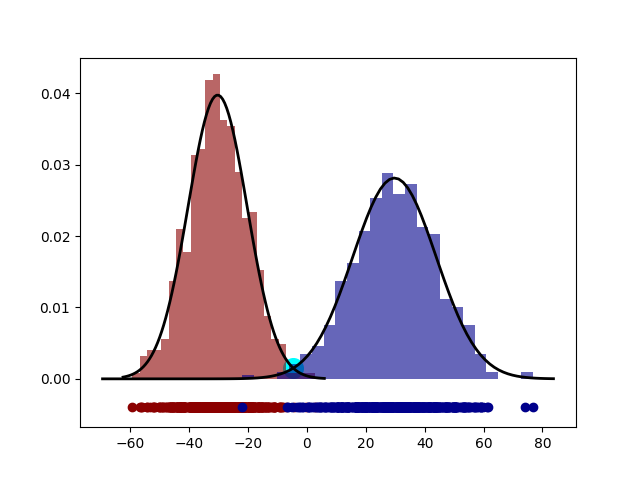
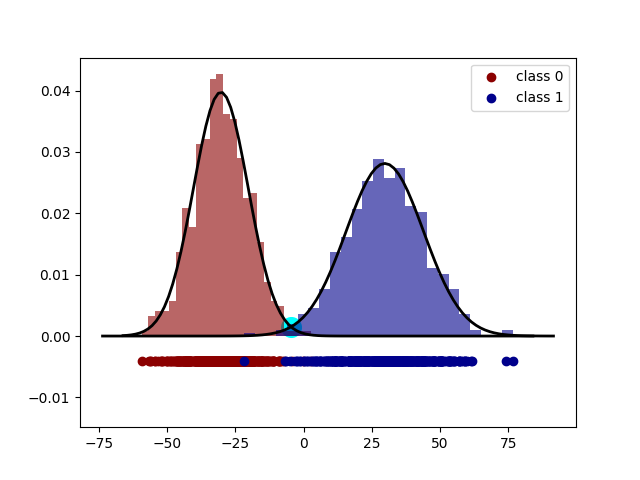
Fishers Discriminant: Add README

diff --git a/fishers-discriminant/main.py b/fishers-discriminant/main.py
@@ -2,6 +2,7 @@ from fishers_discriminant import Model
 import numpy as np
 import matplotlib.pyplot as plt
 import plotter
+np.random.seed(0)
 
 def load_data(path):
 
@@ -28,23 +29,31 @@ def train_test_split(X, test_ratio=0.33):
     return train, test, t
 
 def calculate_accuracy(y, t):
-        
-        return 100 - (np.mean(np.abs(y - t))*100)
+
+    return 100 - (np.mean(np.abs(y - t))*100)
     
+
 def calculate_fscore(y, t):
     
-    intersection = np.sum(y*t)
-    precision = intersection / np.sum(y)
-    recall = intersection / np.sum(t)
-    fscore = (2*precision*recall)/(precision + recall)
+    epsilon = 1e-20
+
+    tp = np.sum(t*y) + epsilon
+    pp = np.sum(y) + epsilon
+    ap = np.sum(t) + epsilon
+
+    precision = tp/pp
+    recall = tp/ap
+    
+    fscore = (2*precision*recall)/(precision + recall + epsilon)
     return fscore
 
 if __name__ == '__main__':
 
     model = Model()
-    data = load_data('data/data2D.npy')
+    data = load_data('data/data3D.npy')
     train, test, t = train_test_split(data, 0.20)
-    _2D = 1
+    # set to 1 to visualize 2D dataset without transformation
+    _2D = 0
     # print(train.shape, test.shape)
 
     # Model takes as input examples stacked as rows
@@ -53,15 +62,20 @@ if __name__ == '__main__':
     print(calculate_accuracy(y, t))
     print(calculate_fscore(y, t))
 
-    plotter.plot_normal(X0, '#8B0000')
-    plotter.plot_normal(X1, '#00008B')
+    print(X0[:10])
+    print(X1[:10])
+
     plotter.plot_line(X0, '#8B0000')
     plotter.plot_line(X1, '#00008B')
+    plt.legend(['class 0', 'class 1'], loc=4)
+    plotter.plot_normal(X0, '#8B0000')
+    plotter.plot_normal(X1, '#00008B')
     plotter.plot_point(tx, ty)
     plt.show()
 
     plotter.plot_transformed(X0, model.get_w(), '#8B0000')
     plotter.plot_transformed(X1, model.get_w(), '#00008B')
+    plt.legend(['class 0', 'class 1'], loc=4)
     if _2D:
         x0, x1 = model.segregate_classes(train)
         plotter.plot(x0*1000, '#F08080')

diff --git a/fishers-discriminant/fishers_discriminant.py b/fishers-discriminant/fishers_discriminant.py
@@ -3,10 +3,15 @@ import numpy as np
 class Model:
 
     def __init__(self):
+        # direction along which to project the vectors
         self.w = None
+        # value of threshold to be used for classification after dimensionality reduction
         self.threshold = None
+        # value of probability at the threshold (needed only for visualization purposes)
         self.thresholdY = None
+        # True if mean of class 0 is > mean of class 1
         self.inv = False
+        # scaling factor to make plots more visually appealing
         self.scale = None
 
 
@@ -44,7 +49,7 @@ class Model:
         Sw = cv0 + cv1
         self.w = np.matmul(np.linalg.inv(Sw), mean1 - mean0).reshape(-1)
         # scale w so that w[0] = 1
-        self.scale = 1/self.w[0]
+        self.scale = np.abs(1/self.w[0])
         self.w = self.w*self.scale
 
     def transform(self, data):

diff --git a/fishers-discriminant/data.py b/fishers-discriminant/data.py
@@ -1,13 +1,3 @@
-# Data information
-
-# 1. variance of Wavelet Transformed image (continuous)
-# 2. skewness of Wavelet Transformed image (continuous)
-# 3. curtosis of Wavelet Transformed image (continuous)
-# 4. entropy of image (continuous)
-# 5. class (integer)
-
-# Number of instances: 1372
-
 import csv
 import numpy as np
 

diff --git a/fishers-discriminant/README.md b/fishers-discriminant/README.md
@@ -1,0 +1,51 @@
+# Linear Discriminant Analysis
+
+The objective of this project is to implement Fisher's Linear Discriminant for dimensionality reduction. Further, after projection into a smaller space, a classification model is built by estimating the smaller dimensional Gaussian distribution from which each class is drawn.
+
+The model was trained and tested on 2 datasets and can be found in `data/`.
+- `data2D.npy` contains 2-dimensional data and 2 classes (binary classification)
+- `data3D.npy` contains 3-dimensional data and 2 classes (binary classification)
+
+Each of these is reduced to 1 dimension for classification using the discriminant made.
+The 1D Gaussian is estimated using maximum likelihood estimation and the classifier threshold is found by intersecting the two Gaussians (corresponding to each class). Intersection point for Gaussians is found using binary search.
+
+#### Model Description
+
+The model is defined in `fisher_discriminant.py` as `Model`.
+
+## Experiments
+
+To evaluate the robustness of this method, the dataset is split into train and test sets in the ratio 0.8:0.2 respectively. No validation set is required because there are no hyperparameters to be tuned.
+
+The projection direction and classification threshold were found using the train set and the test set was classified was projected to this dimension and classified using the estimated threshold. The results and some plots are summarized later in this document.
+
+#### Metrics Used
+**Accuracy** is calculated as the percentage of correctly classified samples.
+**F-score** is calculated as the harmonic mean of precision and recall, where:
+- precision is calculated as ratio of true positives and predicted positives
+- recall is calculated as ratio of true positives and actual positives
+
+#### Figures
+
+- <i>Left hand side figures show the data plotted in reduced dimensions (for 2D data, original scatterplot is also shown).
+- Right hand side figures show the Gaussians obtained along the projected dimension. The intersection of the Gaussians is highlighted in cyan.</i>
+
+|data2D.npy|data2D.npy|
+|--|--|
+|<img src = "img/og&1D.png">|<img src = "img/normal&1D.png">
+
+|data3D.npy|data3D.npy|
+|--|--|
+|<img src = "img/3Dog&1D.png">|<img src = "img/3Dnormal&1D.png">
+
+#### Results
+
+Data|Accuracy|F-Score
+----|----|---|
+data2D.npy|99.5|0.995
+data3D.npy|100.0|1.0
+
+#### Conclusions
+
+- Both the datasets reveal that the model performs well.
+- The high accuracy reveals that the orginial data had a well defined linear discriminant along which the data could be sepearated into respective classes.
